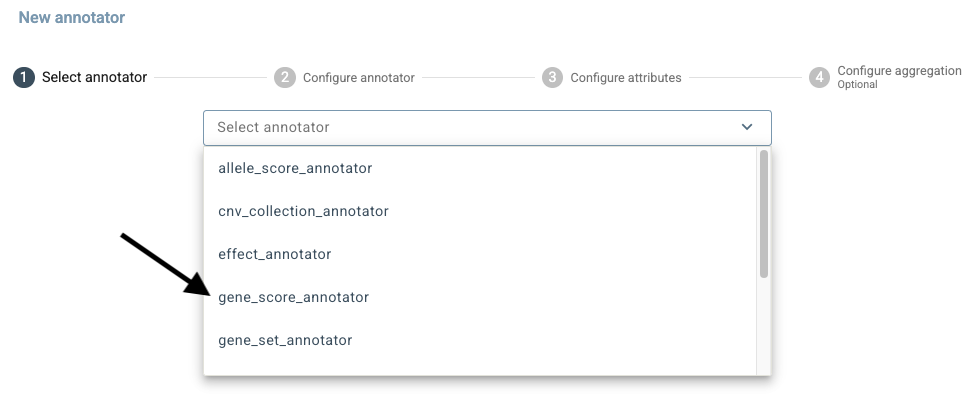
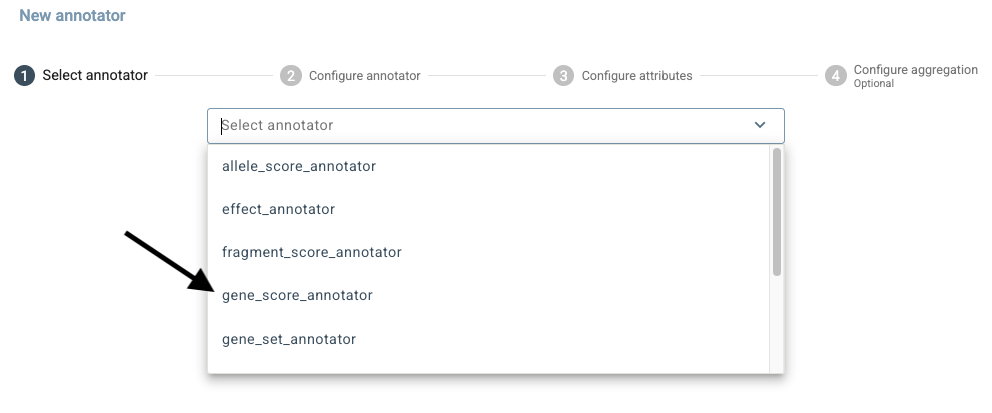
CNV to fragment score transition complete

diff --git a/docs/source/annotation_infrastructure.rst b/docs/source/annotation_infrastructure.rst
@@ -217,7 +217,7 @@ The ``allele_score_annotator`` operates in one of two modes, selected by the ``m
    * - ``region``
      - Finds all allele lines that overlap the annotatable's span and aggregates their scores.
 
-       This mode works with any annotatable type, including ``VCFAllele``, ``Region``, and CNV.
+       This mode works with any annotatable type, including ``VCFAllele``, ``Region``, and other interval-based annotatables.
 
 In ``region`` mode, the ``aggregator`` attribute parameter controls how multiple matched values are combined. If no ``aggregator`` is specified in the attribute configuration, the annotator uses the score's default ``allele_aggregator`` from the resource definition (which defaults to ``max`` for numeric scores and ``list`` for string scores).
 
@@ -607,15 +607,13 @@ optional associated fields (for example type, frequency, or dataset labels), and
 annotation GAIn performs an interval overlap query at the annotatable's genomic coordinates to
 retrieve matching fragments.
 
-Copy-number variants are the most common thing to store this way, which is why this annotator
-and its resource type were once called ``cnv_collection``. Nothing about either is specific to
-copy number.
+Copy-number variants are the most common thing to store this way, which is why the resource type was once called ``cnv_collection`` and the annotator ``cnv_collection_annotator``. Nothing about either is specific to copy number.
 
 .. note::
 
-    **The older names still work, but they are deprecated and stop being accepted in GAIn**
-    ``2027.1.0``. ``cnv_collection`` and ``cnv_collection_annotator`` are still accepted as
-    annotator names, ``type: cnv_collection`` is still accepted as a resource type, and
+    **The older names still work, but they are deprecated and will stop being accepted in GAIn**
+    ``2027.1.0``. ``cnv_collection_annotator`` is still accepted as an
+    annotator name, ``type: cnv_collection`` is still accepted as a resource type, and
     ``cnv_filter:`` is still accepted as the filter parameter -- each one now logs a warning
     naming where it was written and what to write instead. Rewrite them to ``fragment_score``,
     ``fragment_score_annotator``, ``type: fragment_score`` and ``fragment_filter:``.
@@ -623,8 +621,7 @@ copy number.
     Do not configure both ``fragment_filter:`` and ``cnv_filter:`` on one annotator -- they are
     two spellings of one parameter, and GAIn refuses the pipeline rather than pick one.
 
-A ``fragment_score_annotator`` can be used with a minimal configuration. If you omit the ``attributes`` section, GAIn uses the resource's default annotation,
-which reports the count of overlapping fragments in the resource for each input annotatable (i.e., how many fragments in the database overlap that locus).
+A ``fragment_score_annotator`` can be used with a minimal configuration. If you omit the ``attributes`` section, GAIn uses the resource's default annotation, which reports the count of overlapping fragments in the resource for each input annotatable (i.e., how many fragments in the database overlap that locus).
 
 .. code:: yaml
 
@@ -1785,7 +1782,7 @@ This produces ``annotation_6.txt`` with the lifted-over annotatable plus the hg1
 
 A `fragment_score_annotator` reports copy-number variant (CNV) events whose intervals overlap each 
 input locus. If you do not specify any attributes, the annotator reports the number of overlapping 
-CNV events observed in the collection as ``count``.
+CNV events observed in the resource as ``count``.
 
 Create a file called ``annotation_pipeline_cnv_1.yaml`` with the following content. This will query the `DGV <https://grr.iossifovlab.com/hg38/cnv_collections/DGV/index.html>`_ resource.
 
@@ -1815,7 +1812,7 @@ This produces ``annotation_cnv_1.txt`` with the default count column:
 
 
 
-To emit specific fields from the CNV records, add an ``attributes`` list. CNV collection attributes 
+To emit specific fields from the CNV records, add an ``attributes`` list. Fragment score attributes 
 use the ``attribute.<id>`` form (for example, ``attribute.deletion_duplication``).
 
 Create a file called annotation_pipeline_cnv_2.yaml:

diff --git a/docs/source/grr.rst b/docs/source/grr.rst
@@ -1136,7 +1136,7 @@ which describes the event type recorded.
       desc: duplication or deletion
 
     meta:
-      summary: CNV collection resource
+      summary: fragment score resource
 
 
 Gene scores
